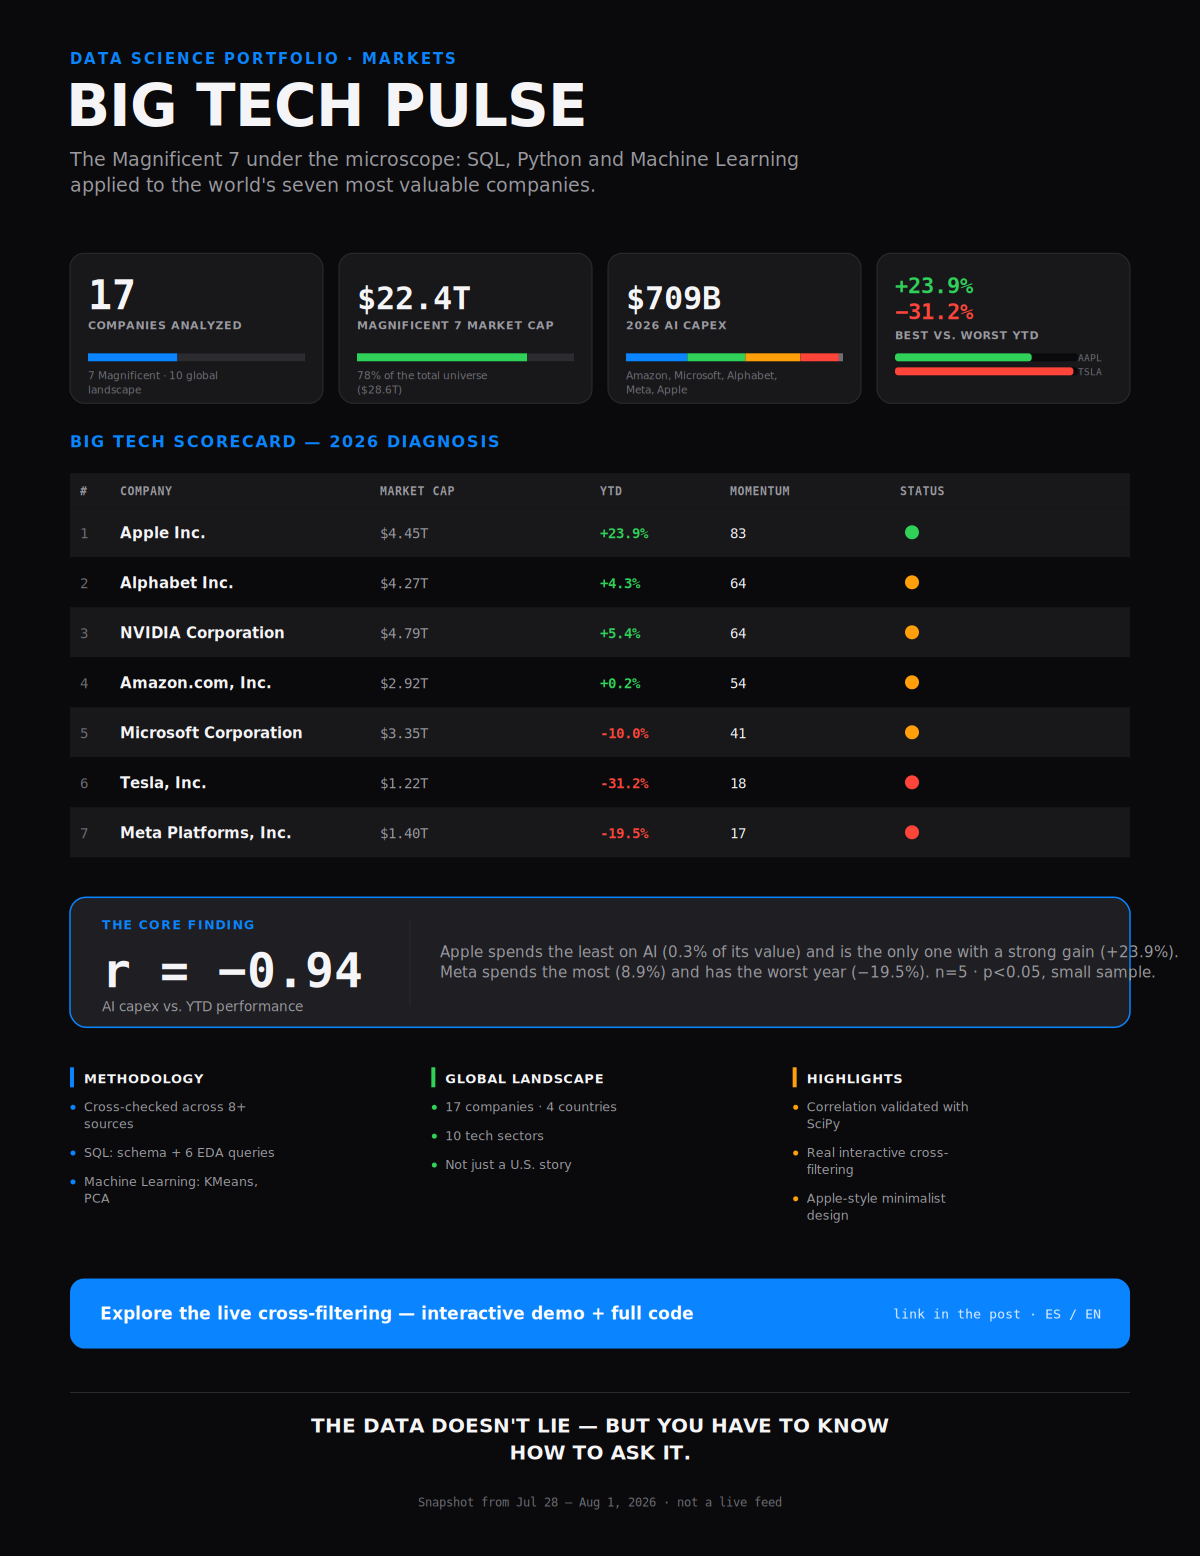
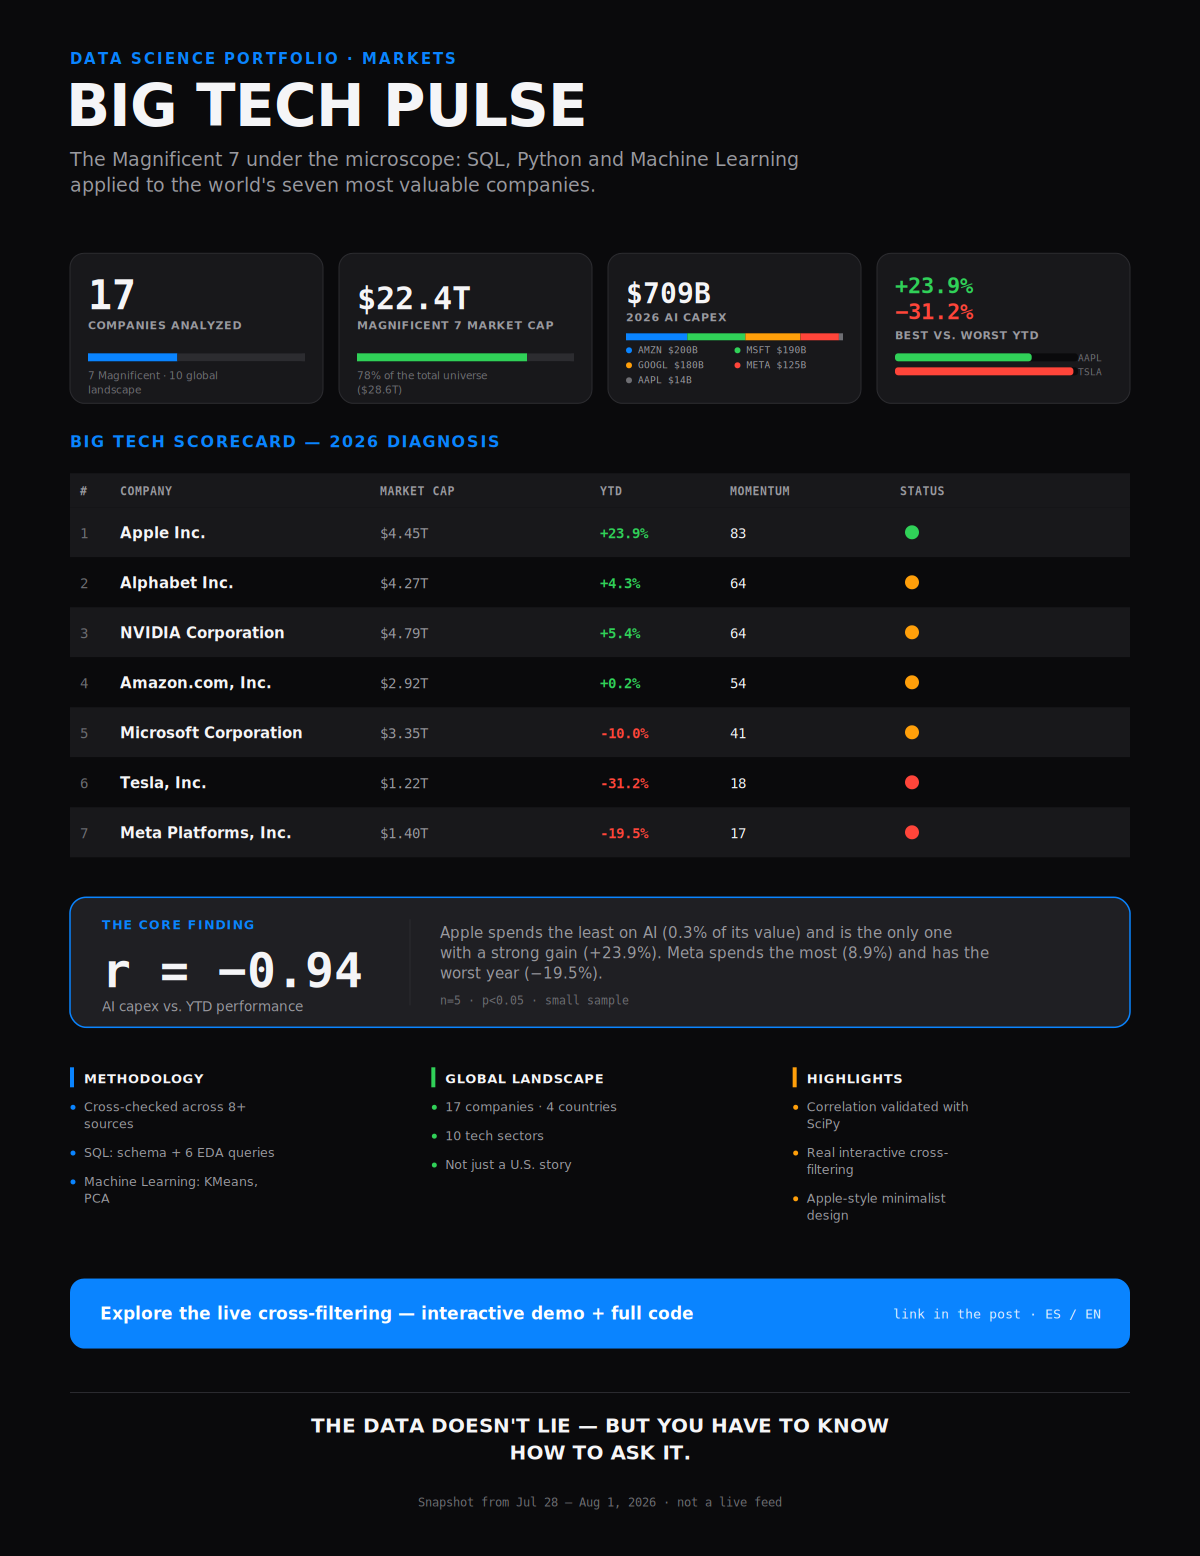
Ajustar scorecard de LinkedIn: leyenda de las 5 empresas de capex IA (ticker + monto) en la card 3, y corregir desborde de texto en el hallazgo principal (cálculo de ancho de caracter estaba subestimado)

Changed region(s): [[0.37, 0.5861, 0.8942, 0.6478], [0.5242, 0.1851, 0.7092, 0.2776], [0.8942, 0.5861, 0.9867, 0.6478]]

diff --git a/scripts/09_linkedin_scorecard.py b/scripts/09_linkedin_scorecard.py
@@ -83,7 +83,8 @@ def build_svg(lang):
         badge_eyebrow = "EL HALLAZGO CENTRAL"
         badge_big = "r = −0.94"
         badge_label = "Capex en IA vs. rendimiento YTD"
-        badge_desc = "Apple gasta menos en IA (0.3% de su valor) y es la única con alza fuerte (+23.9%). Meta gasta más (8.9%) y tiene el peor año (−19.5%). n=5 · p<0.05, muestra pequeña."
+        badge_desc = "Apple gasta menos en IA (0.3% de su valor) y es la única con alza fuerte (+23.9%). Meta gasta más (8.9%) y tiene el peor año (−19.5%)."
+        badge_note = "n=5 · p<0.05 · muestra pequeña"
         col1_title, col1_items = "METODOLOGÍA", ["Extracción cruzada de 8+ fuentes", "SQL: esquema + 6 queries EDA", "Machine Learning: KMeans, PCA"]
         col2_title, col2_items = "PANORAMA GLOBAL", ["17 empresas · 4 países", "10 sectores tecnológicos", "No es solo una historia de EE.UU."]
         col3_title, col3_items = "DESTACADOS", ["Correlación validada con SciPy", "Cross-filtering interactivo real", "Diseño minimalista tipo Apple"]
@@ -105,7 +106,8 @@ def build_svg(lang):
         badge_eyebrow = "THE CORE FINDING"
         badge_big = "r = −0.94"
         badge_label = "AI capex vs. YTD performance"
-        badge_desc = "Apple spends the least on AI (0.3% of its value) and is the only one with a strong gain (+23.9%). Meta spends the most (8.9%) and has the worst year (−19.5%). n=5 · p<0.05, small sample."
+        badge_desc = "Apple spends the least on AI (0.3% of its value) and is the only one with a strong gain (+23.9%). Meta spends the most (8.9%) and has the worst year (−19.5%)."
+        badge_note = "n=5 · p<0.05 · small sample"
         col1_title, col1_items = "METHODOLOGY", ["Cross-checked across 8+ sources", "SQL: schema + 6 EDA queries", "Machine Learning: KMeans, PCA"]
         col2_title, col2_items = "GLOBAL LANDSCAPE", ["17 companies · 4 countries", "10 tech sectors", "Not just a U.S. story"]
         col3_title, col3_items = "HIGHLIGHTS", ["Correlation validated with SciPy", "Real interactive cross-filtering", "Apple-style minimalist design"]
@@ -159,18 +161,24 @@ def build_svg(lang):
     sub_lines2, _ = wrap_tspans(kpi2_sub, kx2+18, 30, 10.5)
     svg_parts.append(f'<text x="{kx2+18}" y="{y+126}" font-family="DejaVu Sans" font-size="10.5" fill="{P["text3"]}">{sub_lines2}</text>')
 
-    # Card 3: capex IA (mini stacked bar por empresa)
+    # Card 3: capex IA (mini stacked bar + leyenda compacta de las 5 empresas)
     kx3 = kx2 + kpi_w + 16
     svg_parts.append(f'<rect x="{kx3}" y="{y}" width="{kpi_w}" height="{kpi_h}" rx="14" fill="{P["card"]}" stroke="{P["border"]}"/>')
-    svg_parts.append(f'<text x="{kx3+18}" y="{y+56}" font-family="DejaVu Sans Mono" font-size="32" font-weight="bold" fill="{P["text"]}">{kpi3_num}</text>')
-    lbl_lines3, _ = wrap_tspans(kpi3_lbl, kx3+18, 22, 11)
-    svg_parts.append(f'<text x="{kx3+18}" y="{y+76}" font-family="DejaVu Sans" font-size="11" font-weight="bold" letter-spacing="0.5" fill="{P["text2"]}">{lbl_lines3}</text>')
+    svg_parts.append(f'<text x="{kx3+18}" y="{y+50}" font-family="DejaVu Sans Mono" font-size="28" font-weight="bold" fill="{P["text"]}">{kpi3_num}</text>')
+    lbl_lines3, _ = wrap_tspans(kpi3_lbl, kx3+18, 24, 11)
+    svg_parts.append(f'<text x="{kx3+18}" y="{y+68}" font-family="DejaVu Sans" font-size="11" font-weight="bold" letter-spacing="0.5" fill="{P["text2"]}">{lbl_lines3}</text>')
     capex_companies = sorted([c for c in data if c.get("capex_ia_2026_b")], key=lambda c: -c["capex_ia_2026_b"])
     capex_colors = [P["blue"], P["green"], P["amber"], P["red"], P["text3"]]
     capex_segments = [(c["capex_ia_2026_b"], capex_colors[i % len(capex_colors)]) for i, c in enumerate(capex_companies)]
-    svg_parts.append(mini_stacked_bar(kx3+18, y+100, kpi_w-36, 8, capex_segments))
-    sub_lines3, _ = wrap_tspans(kpi3_sub, kx3+18, 30, 10.5)
-    svg_parts.append(f'<text x="{kx3+18}" y="{y+126}" font-family="DejaVu Sans" font-size="10.5" fill="{P["text3"]}">{sub_lines3}</text>')
+    svg_parts.append(mini_stacked_bar(kx3+18, y+80, kpi_w-36, 7, capex_segments))
+    # leyenda: 5 empresas en 2 columnas (ticker + monto), con el punto de color correspondiente
+    leg_col_w = (kpi_w - 36) / 2
+    for i, c in enumerate(capex_companies):
+        row, col = divmod(i, 2)
+        lx = kx3 + 18 + col * leg_col_w
+        ly = y + 100 + row * 15
+        svg_parts.append(f'<circle cx="{lx+3}" cy="{ly-3}" r="3" fill="{capex_colors[i % len(capex_colors)]}"/>')
+        svg_parts.append(f'<text x="{lx+12}" y="{ly}" font-family="DejaVu Sans Mono" font-size="9.5" fill="{P["text2"]}">{esc(c["ticker"])} ${c["capex_ia_2026_b"]:.0f}B</text>')
 
     # Card 4: mejor vs peor YTD (mini dual bar)
     kx4 = kx3 + kpi_w + 16
@@ -223,12 +231,17 @@ def build_svg(lang):
     svg_parts.append(f'<text x="102" y="{y+114}" font-family="DejaVu Sans" font-size="13.5" fill="{P["text2"]}">{badge_label}</text>')
     # divisor vertical
     svg_parts.append(f'<line x1="{70+left_w}" y1="{y+22}" x2="{70+left_w}" y2="{y+badge_h-22}" stroke="{P["border"]}" stroke-width="1"/>')
-    # columna derecha: descripcion
+    # columna derecha: descripcion (calculo de ancho conservador para evitar desborde:
+    # 9.2px/caracter a font-size 15 en DejaVu Sans, en vez del estimado optimista anterior)
     right_x = 70 + left_w + 30
-    right_w_chars = int((table_w - left_w - 60) / 6.8)
+    right_padding = 34
+    available_px = table_w - left_w - 30 - right_padding
+    right_w_chars = int(available_px / 9.2)
     desc_lines, ndesc = wrap_tspans(badge_desc, right_x, right_w_chars, 15)
-    desc_y = y + badge_h/2 - (ndesc-1)*15*1.35/2 + 5
+    desc_y = y + badge_h/2 - (ndesc-1)*15*1.35/2 - 4
     svg_parts.append(f'<text x="{right_x}" y="{desc_y}" font-family="DejaVu Sans" font-size="15" fill="{P["text2"]}">{desc_lines}</text>')
+    note_y = desc_y + (ndesc-1)*15*1.35 + 26
+    svg_parts.append(f'<text x="{right_x}" y="{note_y}" font-family="DejaVu Sans Mono" font-size="11.5" fill="{P["text3"]}">{esc(badge_note)}</text>')
     y += badge_h + 40
 
     # ============ FOOTER: 3 COLUMNAS PAREJAS ============
